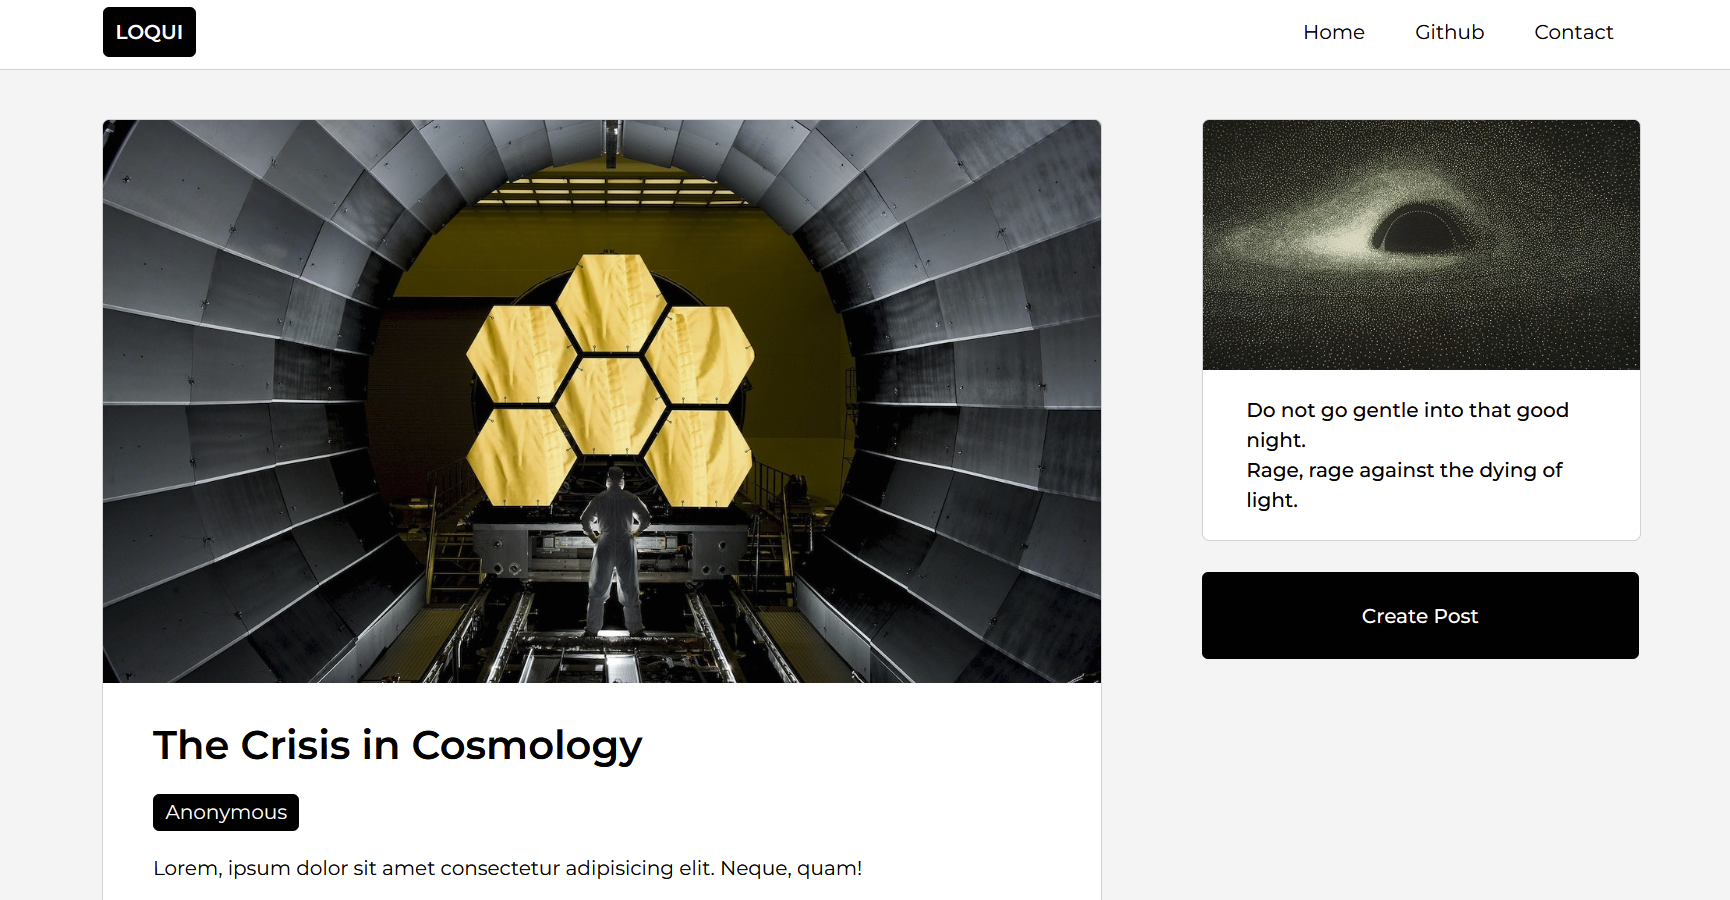
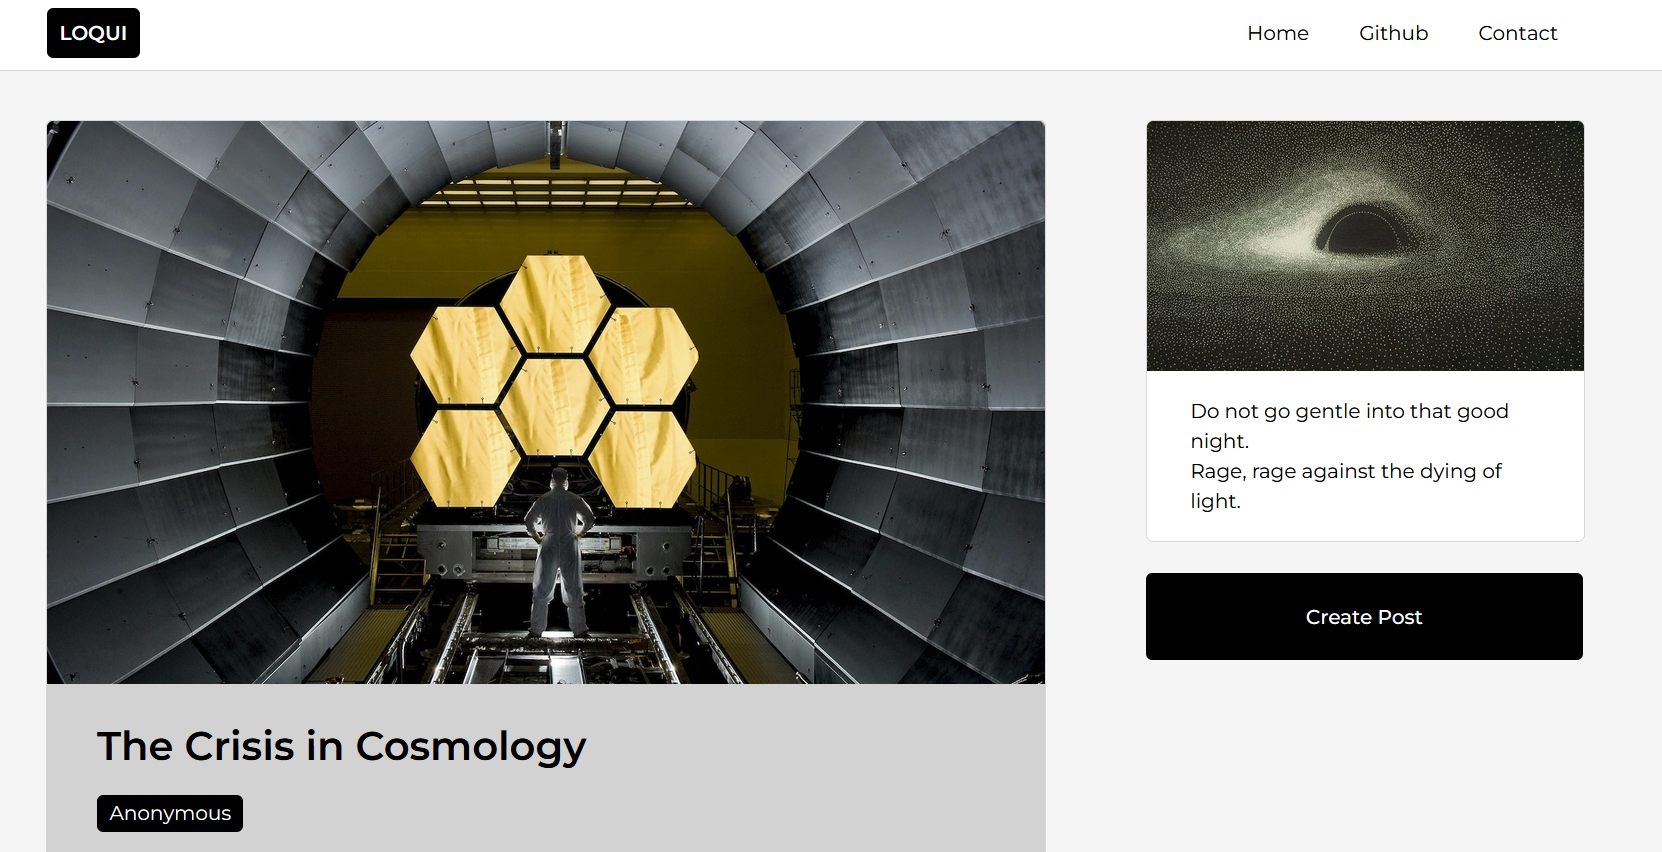
fw update

diff --git a/Components/Pages/Home/SideSection/SideSection.styled.js b/Components/Pages/Home/SideSection/SideSection.styled.js
@@ -36,7 +36,7 @@ export const SideSectionContainer = styled.div`
             display: flex; flex-direction: column; align-items: center;
             & p{
                 width: 80%;
-                font-size: 1em; font-weight: 500;
+                font-size: 1em; font-weight: 400;
                 text-align: left;
                 line-height: 1.5;
             }
